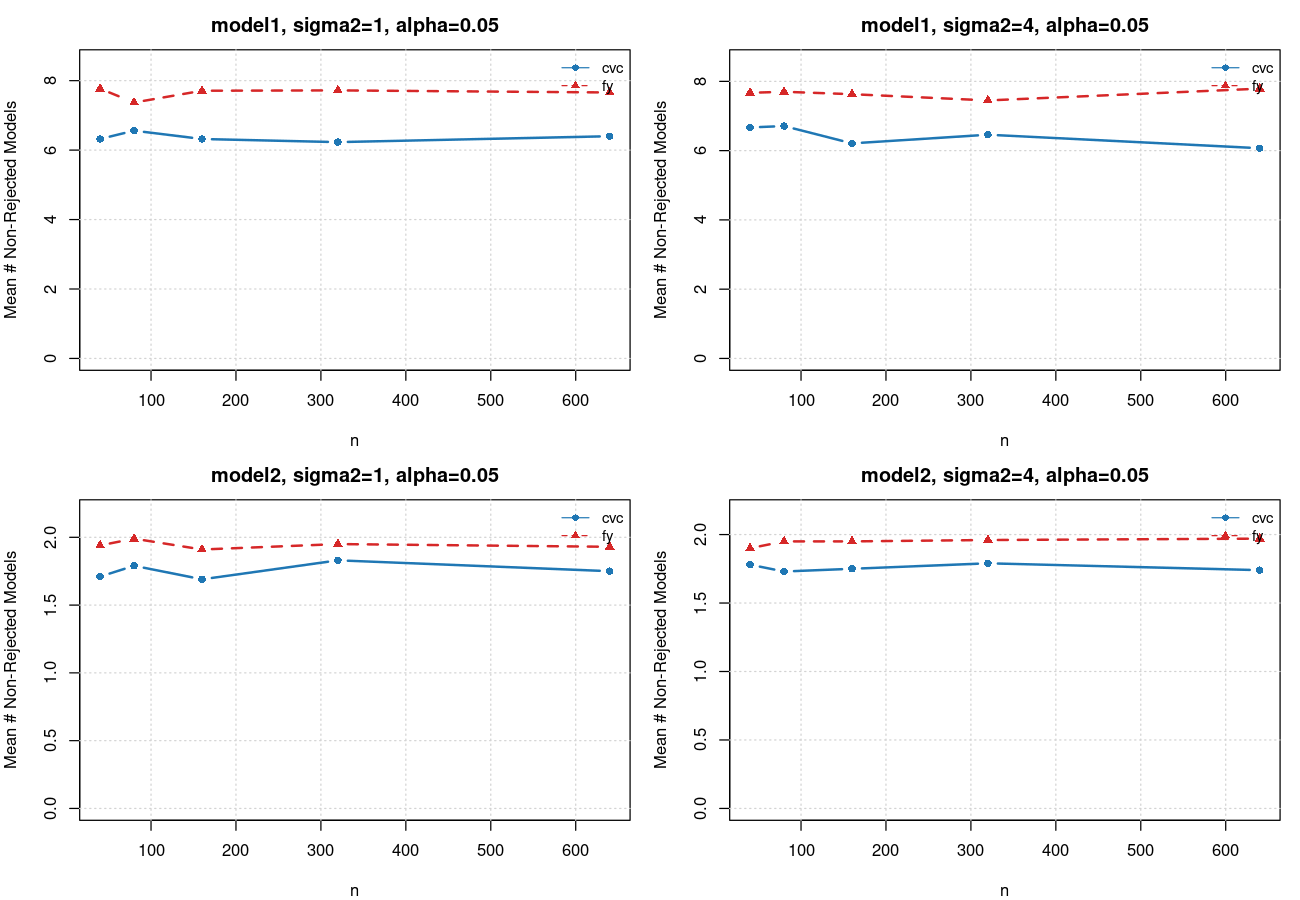
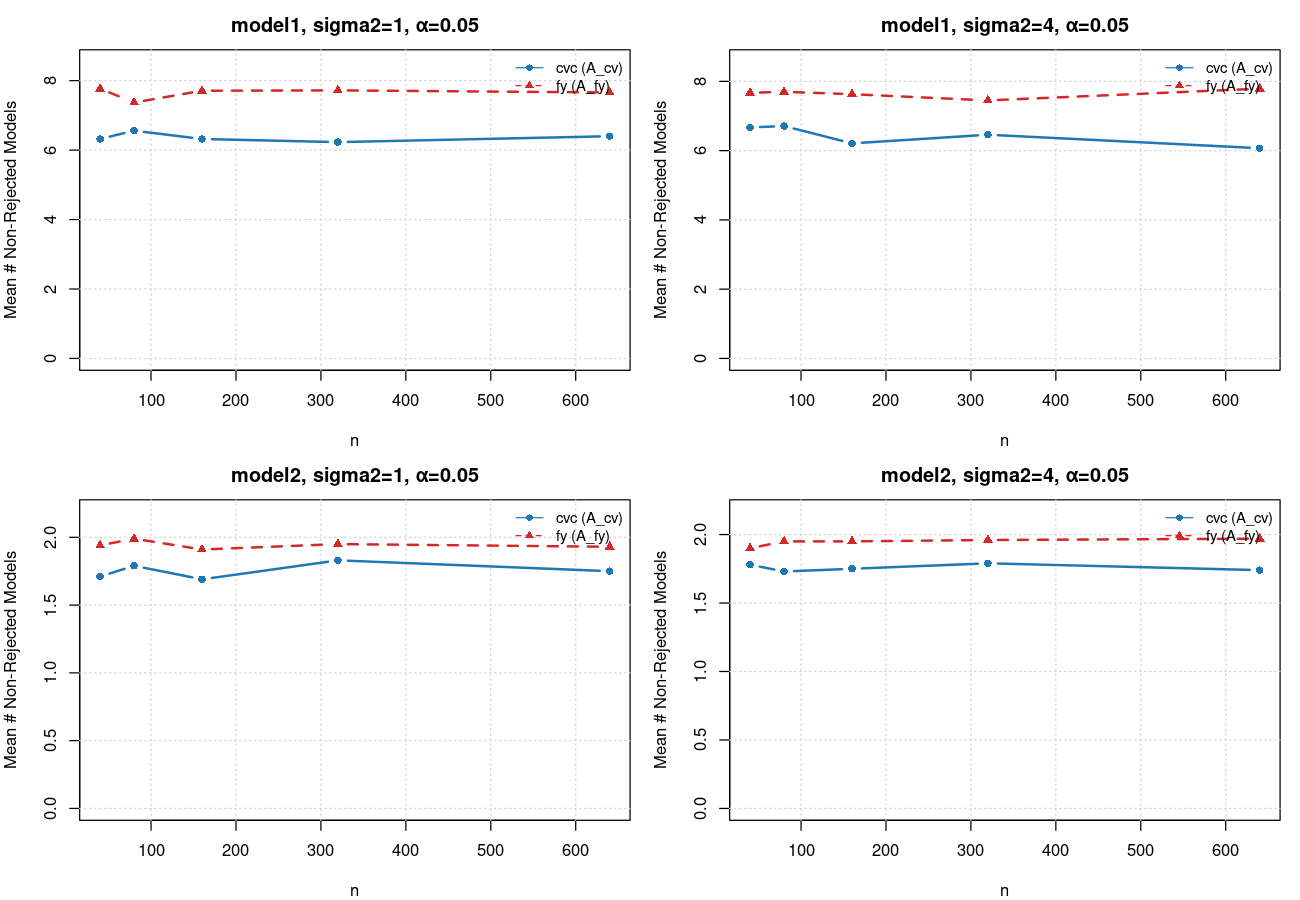
Document CVC/FY non-rejected settings and polish alpha display

diff --git a/docs/simulation1_cvc_rules.md b/docs/simulation1_cvc_rules.md
@@ -3,13 +3,13 @@
 ## 默认实验设置（当前实现）
 
 - 5-fold CV。
-- CVC 参数：`alpha = 0.05`（单一默认值）、`alpha' = 0.005`、`B = 200`。
+- CVC 参数：`α = 0.05`（单一默认值）、`α' = 0.005`、`B = 200`。
 - 候选模型：含截距的 16 个子模型。
 - 对比方法：`cvc_pmax`、`cvc_frac`、`cv`、`bic`、`fy`。
 
 ## 你关心的并列最简模型（tie）处理
 
-记 `A_cv = {m : p_hat_cv,m >= alpha}`。
+记 `A_cv = {m : p_hat_cv,m >= α}`。
 
 1. 先找最简模型集合：
 `M_min = {m in A_cv : |J_m| = min_{k in A_cv} |J_k|}`。
@@ -31,4 +31,19 @@
 
 - 若某次 `A_cv` 为空，按实现约定回退到 `m_cv`，保证可选模型非空。
 - `fy` 目前采用可落地近似实现：对每个子模型与全模型做嵌套 F 检验，
-  不拒绝（`p >= alpha`）的模型进入 FY 置信集；并记录其集合大小。
+  不拒绝（`p >= α`）的模型进入 FY 置信集；并记录其集合大小。
+
+## “无法拒绝模型数量”图的设定（CVC vs FY）
+
+- 图片文件：`figures/sim1_alpha005_nonrejected_count.png`。
+- 统计对象：每次重复中的“不可拒绝模型集合大小”。
+- CVC 曲线：
+  - 集合定义：`A_cv = {m : p_hat_cv,m >= α}`；
+  - 计数：`|A_cv|`；
+  - 图中使用方法标签 `cvc`（代码实现对应 `cvc_pmax` 的同一 `A_cv` 大小）。
+- FY 曲线：
+  - 以全模型为基准，对每个子模型做嵌套 F 检验；
+  - 集合定义：`A_fy = {m : p_fy,m >= α}`；
+  - 计数：`|A_fy|`。
+- 纵轴含义：在 100 次重复上取平均后的集合大小（Mean # Non-Rejected Models）。
+- 分面：`model1/model2 × sigma2=1/4`，横轴是 `n = 40, 80, 160, 320, 640`。

diff --git a/REPRO_GAP.md b/REPRO_GAP.md
@@ -9,12 +9,12 @@
 - V-fold 的具体折叠索引论文未固定。
   当前实现使用固定随机种子下的均衡随机 5-fold。
 - CVC 的 inequality screening 论文给出的是理论化形式。
-  当前实现采用工程化近似阈值 `z_{1-alpha'}`（`alpha'=0.005`）执行筛选。
+  当前实现采用工程化近似阈值 `z_{1-α'}`（`α'=0.005`）执行筛选。
 - 当前 Phase 2 先完成 `cv/cvc/bic` 主线；`fence` 与 F-test 暂未接入。
 - CVC 在 `A_cv` 内最简模型可能不唯一。当前并行报告两种口径：
   - `cvc_pmax`：最简模型中选 `p_hat` 最大者；
   - `cvc_frac`：最简并列集合按 `1/K` 分摊正确率。
 - FY（Ferrari & Yang）当前使用工程化近似：以全模型为基准，对每个子模型执行嵌套 F 检验，
-  将 `p >= alpha` 的模型纳入 FY 置信集并统计集合大小。
+  将 `p >= α` 的模型纳入 FY 置信集并统计集合大小。
 
 以上差异会影响与 Table 1 的逐格数值一致性，但不影响先验证趋势目标。
